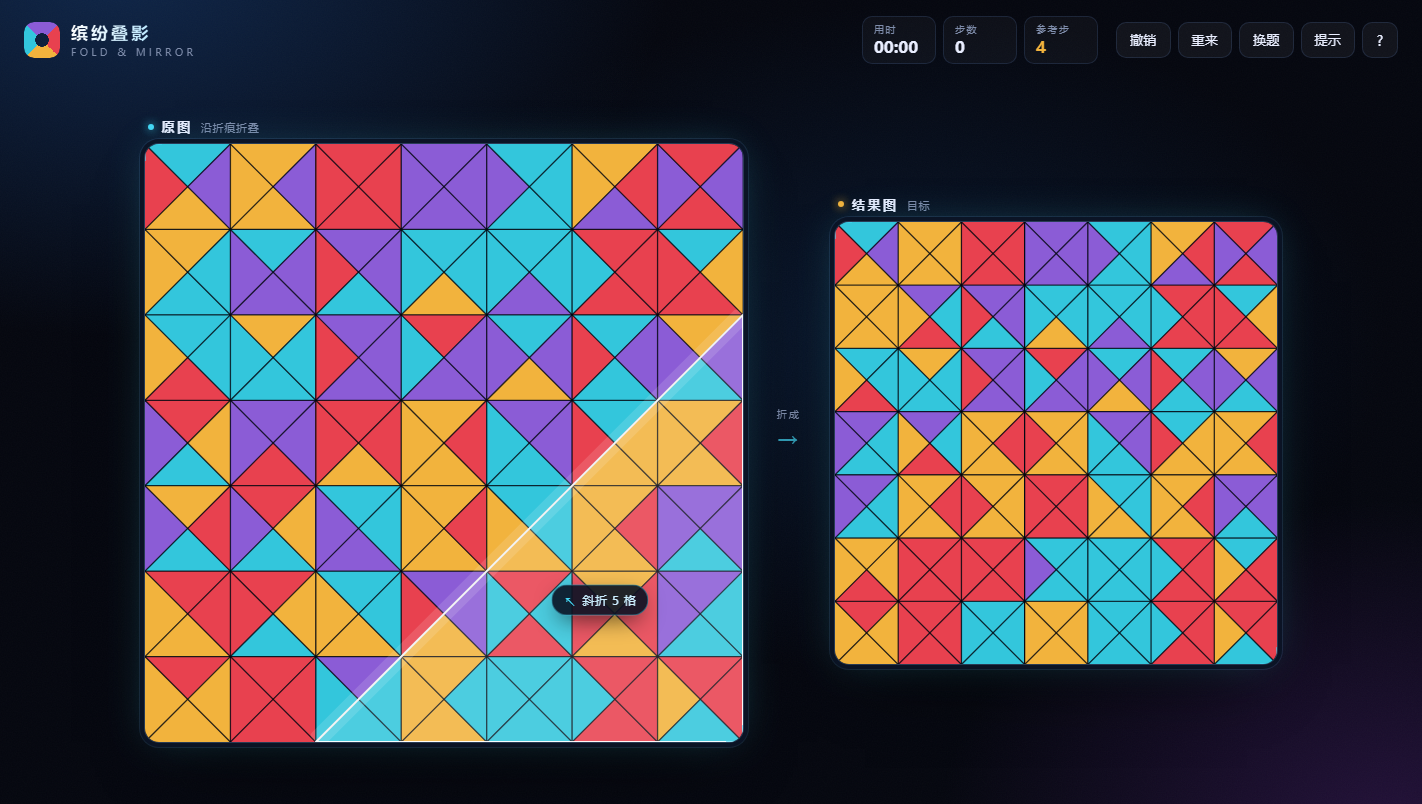
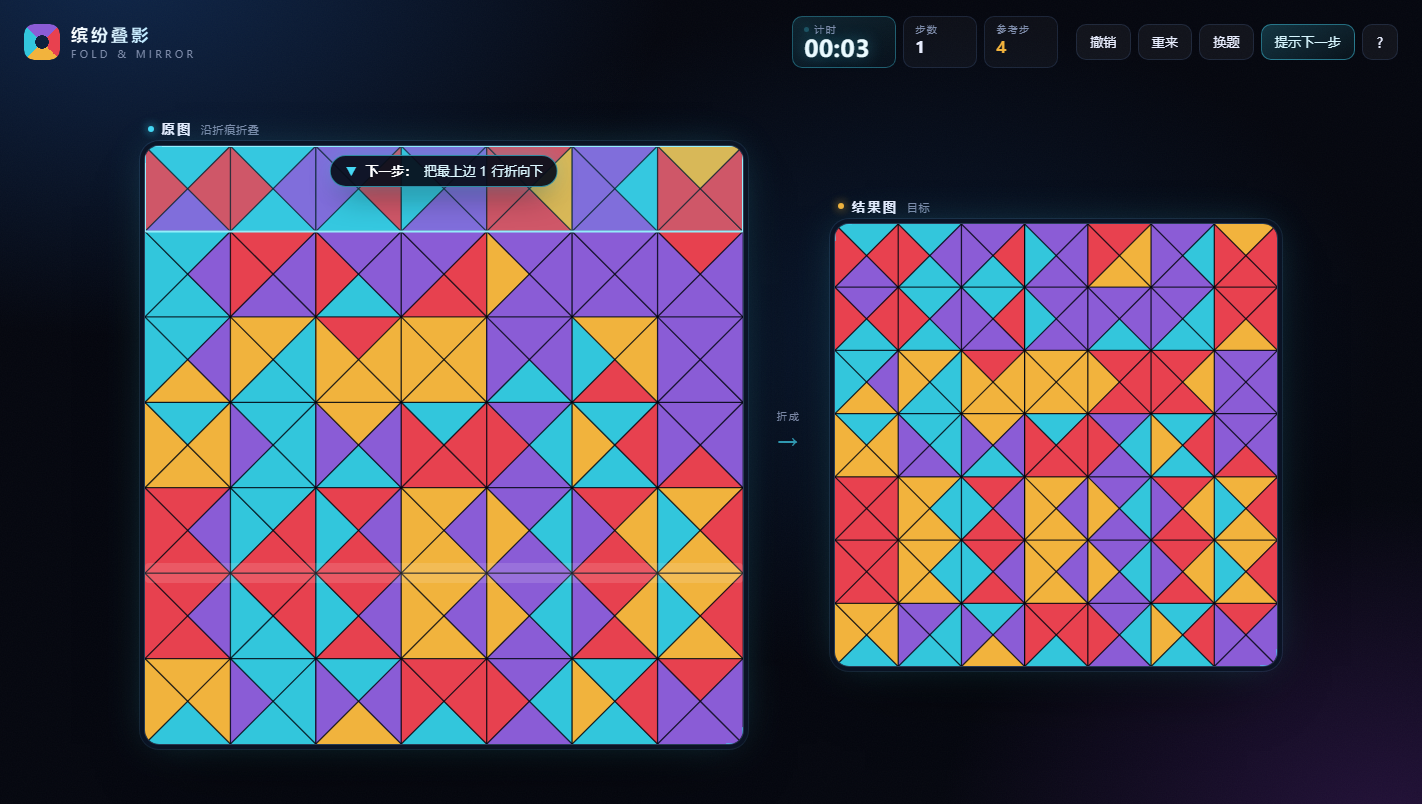
feat: 计时牌置顶醒目 + 「提示下一步」带人话说明
- 顶部计时改为高亮大字牌，开局起一路累加（不限时），通关即停
- 提示按钮改为「提示下一步」：高亮该折的折痕，并在盘面上方用一句话说明怎么折
- 提示算法升级：在解法轨道上直接给下一步；走偏时在 3 层搜索里挑总步数最少的（折到终点或折回轨道）；再兜底给差异最小的一步
- 提示只保留顶部说明，盘面不再叠浮动标签；折叠/重来/换题自动收起

diff --git a/index.html b/index.html
@@ -56,12 +56,22 @@
     -webkit-background-clip:text;background-clip:text;color:transparent}
   .brand p{margin:2px 0 0;font-size:10px;letter-spacing:.34em;color:var(--muted)}
 
-  .stats{display:flex;gap:7px;margin-left:auto}
+  .stats{display:flex;gap:7px;margin-left:auto;align-items:stretch}
   .stat{min-width:74px;padding:6px 11px;border-radius:10px;background:var(--panel);
     border:1px solid var(--line);display:flex;flex-direction:column;gap:1px}
   .stat span{font-size:9.5px;letter-spacing:.2em;color:var(--muted)}
   .stat b{font-size:16px;font-variant-numeric:tabular-nums;font-weight:600}
   .stat.hot b{color:var(--gold)}
+  .stat.time{min-width:104px;border-color:rgba(69,216,245,.34);
+    background:linear-gradient(160deg,rgba(69,216,245,.14),rgba(69,216,245,.03))}
+  .stat.time b{font-size:23px;line-height:1.1;letter-spacing:.02em;color:#eafaff;
+    text-shadow:0 0 16px rgba(69,216,245,.45)}
+  .stat.time.off b{color:#7d8ba6;text-shadow:none}
+  .led{display:inline-block;width:5px;height:5px;border-radius:50%;background:var(--cyan);
+    margin-right:5px;vertical-align:1px;box-shadow:0 0 8px rgba(69,216,245,.9);
+    animation:blink 1.5s ease-in-out infinite}
+  .stat.time.off .led{background:#5a6785;box-shadow:none;animation:none}
+  @keyframes blink{50%{opacity:.2}}
 
   .tools{display:flex;gap:7px}
   button{font-family:inherit;cursor:pointer;border:none;color:var(--text);
@@ -71,8 +81,23 @@
     background:rgba(255,255,255,.05);border:1px solid var(--line)}
   .ghost:hover{background:rgba(255,255,255,.11);border-color:rgba(140,190,255,.3)}
   .ghost:disabled{opacity:.3;cursor:default}
+  .hint-btn{background:linear-gradient(150deg,rgba(69,216,245,.22),rgba(69,216,245,.05));
+    border-color:rgba(69,216,245,.45);color:#d7f6ff}
+  .hint-btn:hover{background:rgba(69,216,245,.3);border-color:rgba(120,235,255,.75)}
   .icon-btn{width:36px;height:36px;border-radius:10px;background:rgba(255,255,255,.05);
     border:1px solid var(--line);font-size:14px}
+
+  /* 下一步提示条 */
+  .coach{position:absolute;left:50%;top:9px;z-index:14;pointer-events:none;
+    display:flex;align-items:center;gap:7px;max-width:calc(100% - 24px);
+    padding:7px 14px;border-radius:999px;font-size:12.5px;letter-spacing:.03em;white-space:nowrap;
+    background:rgba(7,14,26,.93);border:1px solid rgba(69,216,245,.6);color:#dcf7ff;
+    box-shadow:0 14px 32px -12px rgba(0,0,0,.95), 0 0 24px -6px rgba(69,216,245,.55);
+    opacity:0;transform:translate(-50%,-10px);
+    transition:opacity .2s,transform .22s cubic-bezier(.2,.8,.2,1)}
+  .coach.on{opacity:1;transform:translate(-50%,0)}
+  .coach i{font-style:normal;color:var(--cyan);font-size:14px;line-height:1}
+  .coach b{color:#fff;font-weight:600}
   .icon-btn:hover{background:rgba(255,255,255,.11)}
   .icon-btn.off{color:#4a5776}
 
@@ -128,7 +153,7 @@
   .hl polygon{fill:rgba(255,255,255,.125);stroke:rgba(255,255,255,.95);stroke-width:2;
     vector-effect:non-scaling-stroke;stroke-linejoin:round;
     filter:drop-shadow(0 0 10px rgba(255,255,255,.55))}
-  .hl.solved polygon{fill:rgba(69,216,245,.2);stroke:rgba(150,242,255,.98);
+  .hl.solved polygon{fill:rgba(69,216,245,.18);stroke:rgba(150,242,255,.98);
     filter:drop-shadow(0 0 12px rgba(69,216,245,.85))}
 
   .tip{position:absolute;z-index:6;pointer-events:none;opacity:0;transition:opacity .16s,transform .16s;
@@ -249,7 +274,7 @@
       <div><h1>缤纷叠影</h1><p>FOLD & MIRROR</p></div>
     </div>
     <div class="stats">
-      <div class="stat"><span>用时</span><b id="s-time">00:00</b></div>
+      <div class="stat time"><span><i class="led" id="s-led"></i>计时</span><b id="s-time">00:00</b></div>
       <div class="stat"><span>步数</span><b id="s-moves">0</b></div>
       <div class="stat hot"><span>参考步</span><b id="s-par">—</b></div>
     </div>
@@ -257,7 +282,7 @@
       <button class="ghost" id="b-undo">撤销</button>
       <button class="ghost" id="b-reset">重来</button>
       <button class="ghost" id="b-new">换题</button>
-      <button class="ghost" id="b-hint">提示</button>
+      <button class="ghost hint-btn" id="b-hint">提示下一步</button>
       <button class="icon-btn" id="b-help" title="玩法">?</button>
     </div>
   </header>
@@ -265,7 +290,10 @@
   <main class="boards">
     <section class="board-col">
       <div class="col-head"><span class="dot"></span><b>原图</b><em>沿折痕折叠</em></div>
-      <div class="frame" id="frameL"><div class="board" id="board"></div></div>
+      <div class="frame" id="frameL">
+        <div class="coach" id="coach"><i id="coach-ic">↘</i><span id="coach-tx"></span></div>
+        <div class="board" id="board"></div>
+      </div>
     </section>
 
     <div class="mid"><span>折成</span><b>→</b></div>
@@ -292,7 +320,7 @@
           <div class="rule"><div class="n">01 / 折痕</div><p>格线是<b>横折、竖折</b>的折痕，每格的两条对角线是<b>斜折</b>的折痕 —— 三种方向都能折。</p></div>
           <div class="rule"><div class="n">02 / 翻折</div><p>只能把<b>较少的一侧</b>折过去；斜折折走的是<b>角上的三角形</b>。</p></div>
           <div class="rule"><div class="n">03 / 镜像</div><p>翻面时三角色块按折痕<b>镜像</b>，覆盖对面原有的颜色。</p></div>
-          <div class="rule"><div class="n">04 / 还原</div><p>颜色与结果图完全一致即通关，不限步数，用时与步数计分。</p></div>
+          <div class="rule"><div class="n">04 / 还原</div><p>颜色与结果图一致即通关。左上<b>计时一路累加、不限时</b>；卡住就点<b>「提示下一步」</b>，会高亮该折的那条折痕并说明怎么折。</p></div>
         </div>
 
         <div class="pick" id="pick"></div>
@@ -353,6 +381,7 @@
   const $ = s => document.querySelector(s);
   const boardEl = $('#board'), targetEl = $('#target');
   const sTime = $('#s-time'), sMoves = $('#s-moves'), sPar = $('#s-par');
+  const timeStat = sTime.parentElement, coachEl = $('#coach');
 
   const S = {
     diff: localStorage.getItem('fy_diff') || 'mid',
@@ -508,6 +537,17 @@
     if(f.kind === 'd') return f.dir > 0 ? '↙' : '↗';
     return f.dir > 0 ? '↖' : '↘';
   }
+  // 一句人话说明这一步怎么折
+  function foldAdvice(f){
+    if(f.kind === 'v') return f.dir < 0 ? ('把最左边 ' + f.size + ' 列折向右')
+                                        : ('把最右边 ' + f.size + ' 列折向左');
+    if(f.kind === 'h') return f.dir < 0 ? ('把最上边 ' + f.size + ' 行折向下')
+                                        : ('把最下边 ' + f.size + ' 行折向上');
+    if(f.kind === 'd'){
+      return f.dir > 0 ? ('把右上角的三角形折向左下') : ('把左下角的三角形折向右上');
+    }
+    return f.dir > 0 ? ('把右下角的三角形折向左上') : ('把左上角的三角形折向右下');
+  }
 
   /* ==================== 出题 ==================== */
   // 随机彩纸 → 依次折 k 次，折出来的样子就是结果图（所以必然有解：照同一条路走一遍即可）
@@ -659,11 +699,23 @@
     S.tipEl.innerHTML = '<i>' + foldArrow(f) + '</i>' + foldLabel(f);
     S.tipEl.style.left = cx + '%';
     S.tipEl.style.top = cy + '%';
-    S.tipEl.classList.add('on');
+    // 用「提示下一步」时只留顶部那条说明，盘面上不再叠标签
+    S.tipEl.classList.toggle('on', !solved);
+    if(solved) coach('<i>' + foldArrow(f) + '</i><b>下一步：</b>' + foldAdvice(f));
   }
   function hideHint(){
     if(S.hl) S.hl.classList.remove('on');
     if(S.tipEl) S.tipEl.classList.remove('on');
+  }
+  function coach(html, ms){
+    coachEl.innerHTML = html;
+    coachEl.classList.add('on');
+    clearTimeout(coach._t);
+    if(ms) coach._t = setTimeout(hideCoach, ms);
+  }
+  function hideCoach(){
+    clearTimeout(coach._t);
+    if(coachEl) coachEl.classList.remove('on');
   }
 
   /* ==================== 折叠动画 ==================== */
@@ -702,6 +754,7 @@
     if(S.folding || !S.running) return;
     S.folding = true;
     hideHint();
+    hideCoach();
 
     const n = S.n;
     const {flap, geom} = makeFlap(n, S.grid, f);
@@ -760,10 +813,15 @@
     return String(Math.floor(t/60)).padStart(2,'0') + ':' + String(t%60).padStart(2,'0');
   }
   function tick(){ if(S.running) sTime.textContent = fmt(Date.now() - S.started); }
+  function setRunning(on){
+    timeStat.classList.toggle('off', !on);
+    if(on) tick();
+  }
 
   function newPuzzle(key){
     if(key) S.diff = key;
     localStorage.setItem('fy_diff', S.diff);
+    hideCoach();
     const p = makePuzzle(S.diff);
     S.n = p.n; S.colors = p.colors; S.par = p.par;
     S.grid = p.grid.slice(); S.initial = p.grid.slice(); S.target = p.target.slice();
@@ -811,6 +869,7 @@
     S.folding = false;
     clearInterval(S.timerId);
     S.timerId = setInterval(tick, 200);
+    setRunning(true);
     stopDemo();
   }
 
@@ -818,6 +877,9 @@
     if(!S.running || !same(S.grid, S.target)) return;
     S.running = false;
     clearInterval(S.timerId);
+    setRunning(false);
+    hideHint();
+    hideCoach();
     const used = Date.now() - S.started;
     S.solved++;
     localStorage.setItem('fy_solved', S.solved);
@@ -842,35 +904,65 @@
   }
 
   /* ==================== 提示 ==================== */
+  // 目标：永远给得出「下一步点哪条折痕」
+  //   1) 还在出题解法上 → 直接给下一步（再长的解法也能提示）
+  //   2) 走偏了 → 3 层搜索里挑总步数最少的一条：折到终点，或折回解法轨道
+  //   3) 都不行 → 给与目标差异最小的那一步（尽量往对的方向推）
+  function keyOf(g){ return g.join(''); }
+
+  function diffCount(g, t){
+    let d = 0;
+    for(let i=0;i<g.length;i++) if(g[i] !== t[i]) d++;
+    return d;
+  }
+
   function findHint(){
-    // 1) 如果当前盘面还在出题解法上，直接给下一步（大步数也能提示）
-    const pre = S.prefix || [];
+    const n = S.n, pre = S.prefix || [], sol = S.solution || [];
+    const preIdx = new Map();
     for(let i=0;i<pre.length-1;i++){
-      if(same(S.grid, pre[i]) && S.solution[i]) return S.solution[i];
+      if(!preIdx.has(keyOf(pre[i]))) preIdx.set(keyOf(pre[i]), i);
     }
-    // 2) 否则做 3 层 BFS
-    const n = S.n;
-    const key = g => g.join('');
-    const seen = new Set([key(S.grid)]);
+    const cur = keyOf(S.grid);
+    if(preIdx.has(cur)) return sol[preIdx.get(cur)] || null;
+
+    const total = pre.length - 1;          // 解法总步数
+    const seen = new Set([cur]);
     let layer = [{g:S.grid, first:null}];
-    for(let d=0; d<3; d++){
+    let best = null;                        // {first, cost}
+    for(let d=1; d<=3; d++){
       const next = [];
       for(const node of layer){
         for(const f of S.creases){
           const g = applyFold(node.g, n, f);
           if(same(g, node.g)) continue;
-          const k = key(g);
+          const k = keyOf(g);
           if(seen.has(k)) continue;
           seen.add(k);
           const first = node.first || f;
-          if(same(g, S.target)) return first;
-          next.push({g, first});
+          if(same(g, S.target)){
+            if(!best || d < best.cost) best = {first, cost:d};
+          } else if(preIdx.has(k)){
+            const cost = d + (total - preIdx.get(k));
+            if(!best || cost < best.cost) best = {first, cost};
+          }
+          if(next.length < 3000) next.push({g, first});
         }
       }
+      if(best && best.cost <= d) break;
       if(!next.length) break;
       layer = next;
     }
-    return null;
+    if(best) return best.first;
+
+    // 兜底：选让差异最小的那一步
+    let pick = null, least = Infinity;
+    for(const f of S.creases){
+      const g = applyFold(S.grid, n, f);
+      if(same(g, S.grid)) continue;
+      const d = diffCount(g, S.target);
+      if(d < least){ least = d; pick = f; }
+    }
+    return pick;
   }
 
   /* ==================== 演示动画 ==================== */
@@ -952,24 +1044,31 @@
     S.grid = S.initial.slice(); S.history = []; S.moves = 0;
     paint(); sMoves.textContent = '0';
     S.started = Date.now(); S.running = true; S.acc = 0;
-    hideHint();
+    hideHint(); hideCoach();
+    setRunning(true);
     toast('已回到初始盘面');
   });
 
   $('#b-new').addEventListener('click', () => {
     if(S.folding) return;
     newPuzzle(S.diff);
-    S.started = Date.now();
+    S.started = Date.now(); S.acc = 0;
+    hideCoach();
+    setRunning(S.running);
     toast('换新题目');
   });
 
   $('#b-hint').addEventListener('click', () => {
     if(!S.running || S.folding) return;
+    const t0 = performance.now();
     const f = findHint();
-    if(!f){ toast('这一步走远了，试试「重来」'); return; }
+    if(!f){ toast('这一局走散了，点「重来」回到起点最快'); return; }
     showHint(f, true);
-    toast('试试这条折痕 · ' + foldLabel(f));
-    setTimeout(() => S.hl.classList.remove('on'), 2200);
+    // 高亮留久一点，下一次折叠才会消失
+    setTimeout(() => { if(S.hl) S.hl.classList.remove('on'); }, 9000);
+    clearTimeout(coach._t);
+    coach._t = setTimeout(hideCoach, 8000);
+    if(performance.now() - t0 > 260) console.debug('hint ms', Math.round(performance.now() - t0));
   });
 
   $('#b-help').addEventListener('click', () => {
@@ -977,9 +1076,11 @@
       S.acc = Date.now() - S.started;
       S.running = false;
       clearInterval(S.timerId);
+      setRunning(false);
       $('#b-start').textContent = '继 续 挑 战';
     }
     $('#ov-start').hidden = false;
+    hideHint(); hideCoach();
     startDemo();
   });
 
@@ -1000,6 +1101,7 @@
   buildPick();
   newPuzzle(S.diff);
   S.running = false;
+  setRunning(false);
   startDemo();
 })();
 </script>

diff --git a/README.md b/README.md
@@ -35,7 +35,11 @@
 
 - 鼠标移上折痕 → 预览，点击 → 折叠；斜折的点击区是那条 45° 斜线
 - 键盘：`Z` 撤销 · `R` 重来 · `H` 提示
-- 提示优先沿出题解法给出下一步；走偏时退回 3 层广度优先搜索，高亮那一条折痕
+- **计时**：左上角计时牌从开局起一路累加，**不限时**，通关时结算用时
+- **提示下一步**：高亮这一步该折的折痕，并在盘面上方用一句话说明怎么折
+  （「把最上边 3 行折向下」「把右下角的三角形折向左上」…）。
+  提示优先沿出题解法给下一步，所以再长的解法也能一直提示；
+  走偏了会在 3 层搜索里挑「折到终点 / 折回解法轨道」中总步数最少的那个；再不行就给最靠近目标的一步
 
 ### 难度
 
